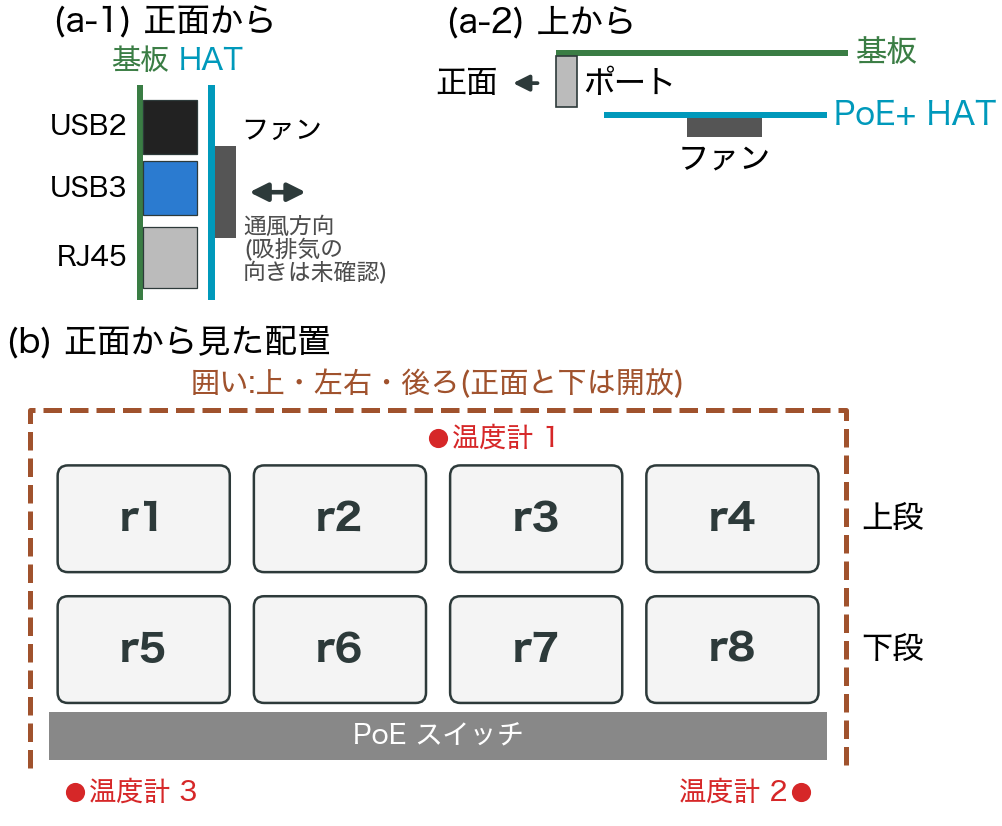
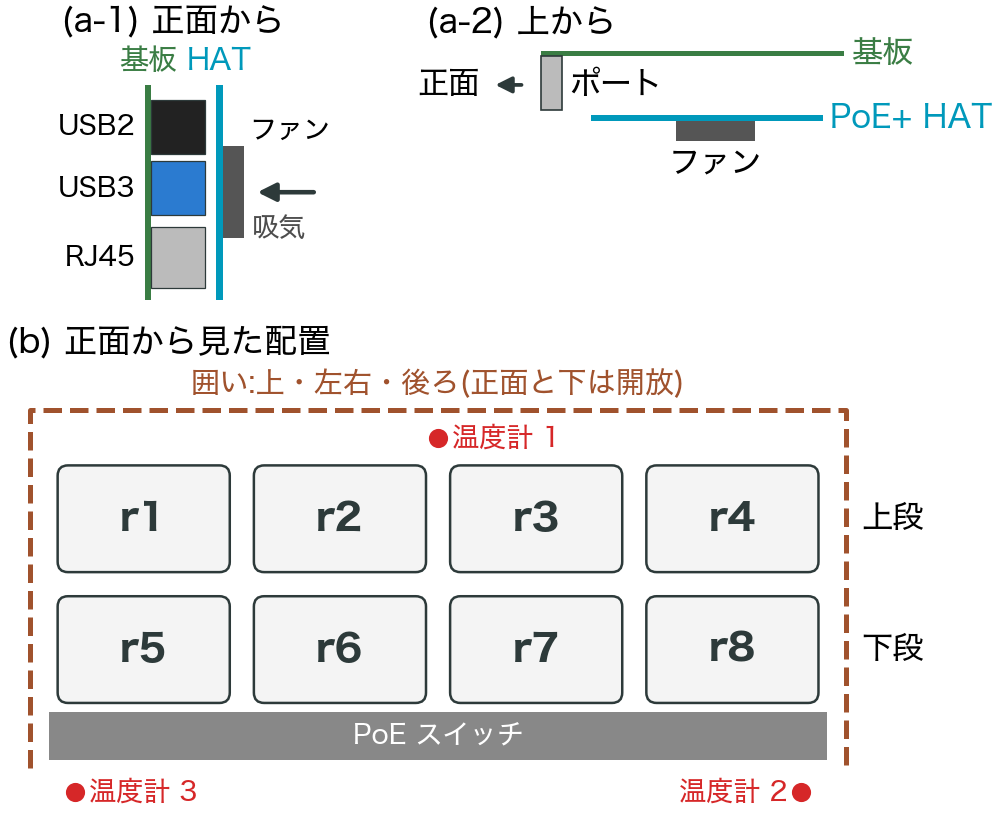
ファンは吸気と記載(先生から聞いた。目視の確認は 12 月)

diff --git a/scripts/fig_rack_layout.py b/scripts/fig_rack_layout.py
@@ -25,9 +25,10 @@ def draw_front(cx):
     cx.text(19.3, 58.5, "HAT", ha="center", va="bottom", fontsize=7, color=HAT)
     cx.text(0.8, 58.5, "基板", ha="center", va="bottom", fontsize=7, color=PCB)
     cx.text(27, 44, "ファン", ha="left", va="center", fontsize=6.5)
-    # 風の軸:ファンは HAT の板に平行なので、風は HAT に垂直(正面から見て左右)。吸い込みか吹き出しかは未確認なので両向き
-    cx.add_patch(FancyArrowPatch((27, 28), (46, 28), arrowstyle="<|-|>", mutation_scale=9, color=INK, lw=1.1))
-    cx.text(27.5, 22, "通風方向\n(吸排気の\n向きは未確認)", ha="left", va="top", fontsize=5.5, color="0.3", linespacing=1.0)
+    # 風:ファンは HAT の板に平行なので、風は HAT に垂直(正面から見て左右)。11/26 夜、吸気(外側から HAT へ吸い込む)とした
+    # (先生から「吸気のはず」と聞いた。自分たちで目視の確認はまだ。12 月にティッシュで確かめる)
+    cx.add_patch(FancyArrowPatch((46, 28), (27, 28), arrowstyle="-|>", mutation_scale=9, color=INK, lw=1.1))
+    cx.text(27.5, 22, "吸気", ha="left", va="top", fontsize=6.5, color="0.3")
     cx.set_xlim(-22, 58)
     cx.set_ylim(-4, 68)
     cx.set_aspect("equal")
